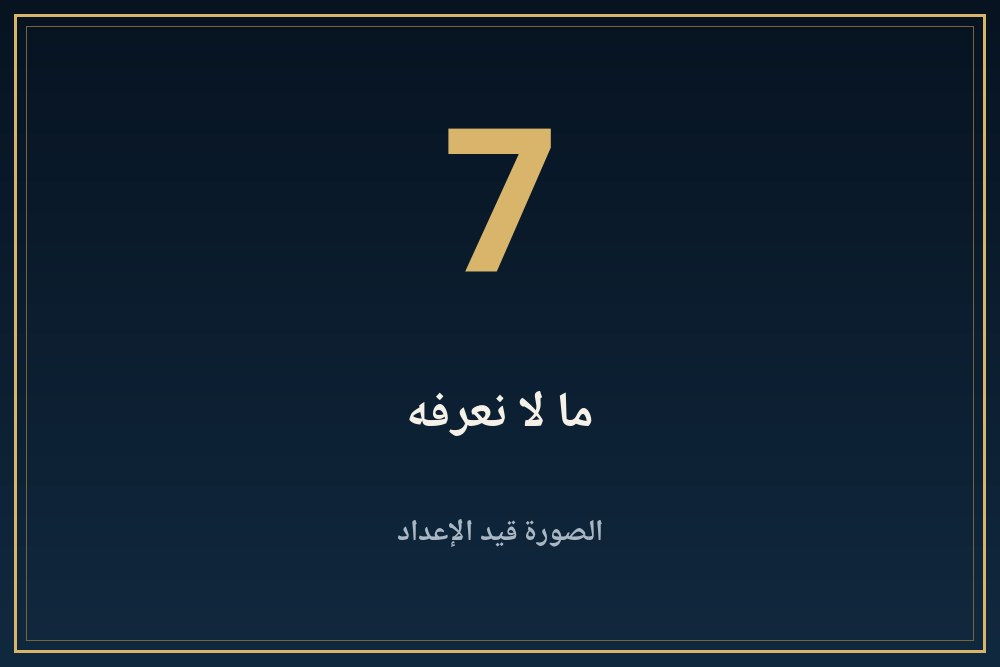
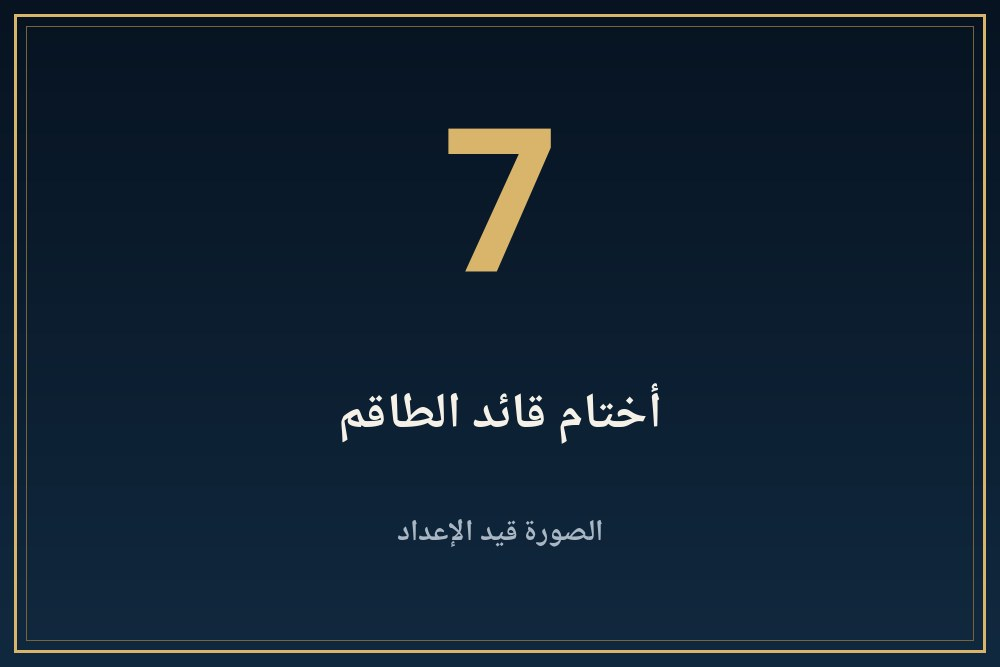
King card 53 folder 102: updated JSON

Changed region(s): [[0.341, 0.5697, 0.682, 0.6597]]

diff --git a/kings/102-swbk-htb-althalth-skhm-ra-swa-dg-tawy/index.html b/kings/102-swbk-htb-althalth-skhm-ra-swa-dg-tawy/index.html
@@ -320,11 +320,11 @@ html[dir=ltr] #panav.open,#pash[dir=ltr] #panav.open{border-right:0!important;bo
 .abt li{display:grid;grid-template-columns:62px 1fr;gap:10px;align-items:baseline;font-size:14px;line-height:1.85;color:#d6dee8}
 .abt li b{color:#d8b56b;font-size:13px;font-weight:700}
 @media(max-width:520px){.abt li{grid-template-columns:1fr;gap:0}.abt li b{margin-bottom:0}}</style><style id="back-ctl">.back-controls{z-index:80}.back-controls{position:fixed;bottom:18px;left:18px;z-index:30;display:flex;flex-direction:row;align-items:center;gap:8px;direction:ltr}.back-top{position:static;background:#d8b56b;color:#091725;border:1px solid rgba(240,215,157,.65);border-radius:50%;width:36px;height:36px;min-width:36px;padding:0;font-size:18px;line-height:1;cursor:pointer;box-shadow:0 5px 16px #0005;display:none;align-items:center;justify-content:center}.back-top.visible{display:flex}.back-top:hover{background:#f0d79d;transform:translateY(-1px)}@media(max-width:600px){.back-controls{bottom:12px;left:12px;gap:6px}.back-top{width:34px;height:34px;min-width:34px;font-size:17px}}.back-controls{display:flex;flex-direction:row;align-items:center;justify-content:center;gap:7px;direction:ltr}.back-top{width:32px;height:32px;min-width:32px;font-size:16px;background:#d8b56b;color:#091725;border:1px solid #f0d79d;box-shadow:0 4px 12px #0005}@media(max-width:600px){.back-controls{left:12px;bottom:12px;gap:6px}.back-top{width:31px;height:31px;min-width:31px;font-size:15px}}</style><style id="herodesk">@media(min-width:768px){header.hero{display:block!important}header.hero .hero-img{display:block!important;margin:0 auto 28px!important;max-width:460px!important;width:100%!important}header.hero .hero-img img{width:100%!important;height:auto!important;border-radius:18px}header.hero .hero-txt{margin-top:0!important}}</style><style id="urlwrap">.acc .body,.acc .body p,.acc .body li,.acc .body a,.acc .body ol,.acc .body ul{overflow-wrap:anywhere;word-break:break-word;min-width:0;max-width:100%}.acc .body a{display:inline;unicode-bidi:plaintext}</style></head><div class="pa-topline"></div><div id="pash"><div class="pa-nav"><a aria-label="بر عنخ الرئيسية" class="pa-brand" href="/"><span class="pa-mark"><span>𓂀</span></span><span class="pa-name">PER ANKH<small>بيت الحياة · HOUSE OF LIFE</small></span></a><nav aria-label="التنقل الرئيسي في الموقع" id="panav"><a href="/#home" data-ar="الرئيسية" data-en="Home">الرئيسية</a><a href="/#discover" data-ar="الأقسام الرئيسية" data-en="Main sections">الأقسام الرئيسية</a><a href="/#kings-details" data-ar="الملوك" data-en="Kings">الملوك</a><a href="/#religion-details" data-ar="الديانة" data-en="Religion">الديانة</a><a href="/#timeline-details" data-ar="العصور والأسرات" data-en="Eras &amp; dynasties">العصور والأسرات</a><a href="/#sites-details" data-ar="المواقع الأثرية" data-en="Archaeological sites">المواقع الأثرية</a><a href="/#library-details" data-ar="المكتبة" data-en="Library">المكتبة</a><a href="/#learning-details" data-ar="التعلم والاختبار" data-en="Learning &amp; quiz">التعلم والاختبار</a><a href="/#about" data-ar="المؤسس" data-en="Founder">المؤسس</a><a class="nav-extra" href="/#architecture-details" data-ar="العمارة والفنون" data-en="Architecture &amp; art">العمارة والفنون</a><a class="nav-extra" href="/#daily-life-details" data-ar="الحياة اليومية" data-en="Daily life">الحياة اليومية</a><a class="nav-extra" href="/#virtual-museum" data-ar="المتحف الافتراضي" data-en="Virtual museum">المتحف الافتراضي</a><a class="nav-extra" href="/#digital-lab" data-ar="معمل الآثار الرقمي" data-en="Digital archaeology lab">معمل الآثار الرقمي</a><a class="nav-extra" href="/#academy-details" data-ar="أكاديمية بر عنخ" data-en="Per Ankh academy">أكاديمية بر عنخ</a><a class="nav-extra" href="/#references-details" data-ar="المراجع والمصادر" data-en="References &amp; sources">المراجع والمصادر</a><a class="nav-extra" href="/#library-expanded" data-ar="المكتبة الأثرية" data-en="Archaeological library">المكتبة الأثرية</a><a class="nav-extra" href="/#interactive-lab" data-ar="مختبر الحضارة التفاعلي" data-en="Interactive lab">مختبر الحضارة التفاعلي</a><a class="nav-extra" href="/#atlas-explorer" data-ar="الأطلس الأثري" data-en="Archaeological atlas">الأطلس الأثري</a><a class="nav-extra" href="/#photo-gallery" data-ar="معرض الصور الأثري" data-en="Photo gallery">معرض الصور الأثري</a><a class="nav-extra" href="/#community-hub" data-ar="مجتمع بر عنخ" data-en="Community">مجتمع بر عنخ</a></nav><div class="pa-act"><button class="pa-lang" id="paLang" type="button">EN</button><a class="pa-acc" id="paAcc" href="/?account=1" data-ar="حسابي" data-en="Account" aria-label="فتح حساب المستخدم">حسابي</a><button class="pa-menu" id="paMenu" type="button" aria-controls="panav" aria-expanded="false" aria-haspopup="true" aria-label="فتح قائمة أقسام الموقع">☰</button></div></div></div><main class="wrap"><nav class="pa-crumb" id="paCrumb" aria-label="مسار الصفحة"><a href="/" data-ar="الرئيسية" data-en="Home">الرئيسية</a><i aria-hidden="true">‹</i><a href="/#kings-details" data-ar="ملوك مصر القديمة" data-en="Ancient Egyptian Kings">ملوك مصر القديمة</a><i aria-hidden="true">‹</i><span aria-current="page" data-ar="سوبك حتب الثالث (سخم رع سوا دج تاوي)" data-en="Sobekhotep Iii">سوبك حتب الثالث (سخم رع سوا دج تاوي)</span></nav><p class="pa-ennote" id="paNote" hidden>The Sobekhotep Iii article below is in Arabic. An English translation has not been prepared yet.</p><article><header class="hero"><i class="deco l"></i><i class="deco r"></i><div class="hero-img"><img src="banners/cover_b.jpg?v=3" alt="سوبك حتب الثالث (سخم رع سوا دج تاوي)" width="900" height="1200" fetchpriority="high"></div>
-<div class="hero-txt"><div class="eyebrow" aria-hidden="true"></div><h1>سوبك حتب الثالث (سخم رع سوا دج تاوي)</h1><p class="sub">ملك موثق بنقوش وآثار من الكرنك والكاب وسهيل والفنتين ومدامود</p></div></header><div class="tools"><button id="all" type="button"><svg viewBox="0 0 24 24" width="24" height="24" fill="none" stroke="currentColor" stroke-width="2.4" stroke-linecap="round" stroke-linejoin="round" aria-hidden="true"><path d="M6 6l6 6 6-6M6 13l6 6 6-6"/></svg><span>فتح الكل</span></button><button id="none" type="button"><svg viewBox="0 0 24 24" width="24" height="24" fill="none" stroke="currentColor" stroke-width="2" stroke-linejoin="round" stroke-linecap="round" aria-hidden="true"><rect x="3" y="4" width="18" height="16" rx="2"/><circle cx="9" cy="9.5" r="1.6" fill="currentColor"/><path d="M3.5 18l5.5-5.5 4 4 3-3 4.5 4.5"/></svg><span>إغلاق الكل</span></button></div><div class="legend" role="note"><b>دليل العلامات في الصفحة</b>
+<div class="hero-txt"><div class="eyebrow" aria-hidden="true"></div><h1>سوبك حتب الثالث (سخم رع سوا دج تاوي)</h1><p class="sub">أسرة منتوحتب: آثار من تل بسطة إلى الكاب</p></div></header><div class="tools"><button id="all" type="button"><svg viewBox="0 0 24 24" width="24" height="24" fill="none" stroke="currentColor" stroke-width="2.4" stroke-linecap="round" stroke-linejoin="round" aria-hidden="true"><path d="M6 6l6 6 6-6M6 13l6 6 6-6"/></svg><span>فتح الكل</span></button><button id="none" type="button"><svg viewBox="0 0 24 24" width="24" height="24" fill="none" stroke="currentColor" stroke-width="2" stroke-linejoin="round" stroke-linecap="round" aria-hidden="true"><rect x="3" y="4" width="18" height="16" rx="2"/><circle cx="9" cy="9.5" r="1.6" fill="currentColor"/><path d="M3.5 18l5.5-5.5 4 4 3-3 4.5 4.5"/></svg><span>إغلاق الكل</span></button></div><div class="legend" role="note"><b>دليل العلامات في الصفحة</b>
 <div class="row"><span class="bdg v">موثّق</span><span>مذكور في مصدر مرقّم يمكن فتحه من قسم المراجع.</span></div>
 <div class="row"><span class="bdg d">محل خلاف</span><span>الصفحة نفسها تذكر أن الباحثين أو المصادر مختلفون فيه.</span></div>
 <div class="row"><span class="bdg u">لم يُتحقق منه</span><span>الصفحة تذكر أنه من مصدر واحد ولم يُتحقق منه في مصدر ثانٍ.</span></div></div>
-<div class="band" aria-hidden="true"></div><details class="acc k1" id="s1"><summary><img class="bnr" src="banners/b01.jpg?v=1" alt="" width="1000" height="667"><span class="n">1</span><span class="t">من هو؟</span><span class="ch"></span></summary><div class="body"><button class="lbtn" type="button" disabled aria-disabled="true" style="opacity:.55;cursor:default"><svg viewBox="0 0 24 24" fill="currentColor" aria-hidden="true"><path d="M7 4.5v15a1 1 0 001.5.86l12-7.5a1 1 0 000-1.72l-12-7.5A1 1 0 007 4.5z"/></svg><span>التعليق الصوتي قريبًا</span></button><p><span class="bdg v">موثّق</span> يسميه سليم (ج4 ص49) «سحم رع سواز تاوي-سبك حتب الثالث»، ويقول إن اسمه لم يأت في قائمة الكرنك على الرغم مما يبدو له من الأهمية، لكن آثاره العدة تدل على نشاطه في طول البلاد وعرضها.<sup><a href="#r1">[1]</a></sup></p></div></details><details class="acc k2" id="s2"><summary><img class="bnr" src="banners/b02.jpg?v=1" alt="" loading="lazy" width="1000" height="667"><span class="n">2</span><span class="t">أسرته</span><span class="ch"></span></summary><div class="body"><button class="lbtn" type="button" disabled aria-disabled="true" style="opacity:.55;cursor:default"><svg viewBox="0 0 24 24" fill="currentColor" aria-hidden="true"><path d="M7 4.5v15a1 1 0 001.5.86l12-7.5a1 1 0 000-1.72l-12-7.5A1 1 0 007 4.5z"/></svg><span>التعليق الصوتي قريبًا</span></button><p><span class="bdg v">موثّق</span> يقول سليم (ص49-50) إن لوحة في فيينا لأمير اسمه «سنب» ذكرت أن والديه «منتوحتب» و«أوهت آبو» هما والدا هذا الملك نفسه، وإن جعارين مبعثرة تذكر اسم أبيه منتوحتب وأمه أوهت آبو. ويقول (ص49) إن في متحف اللوفر لوحة (C.8) صور عليها زوجة الملك وابنتان من بناته تتعبدان لمنو (مني)، وإن نقشها وصورها دقيقة تضارع فن الأسرة الثانية عشرة.<sup><a href="#r1">[1]</a></sup></p></div></details><details class="acc k3" id="s3"><summary><img class="bnr" src="banners/b03.jpg?v=1" alt="" loading="lazy" width="1000" height="667"><span class="n">3</span><span class="t">تماثيله</span><span class="ch"></span></summary><div class="body"><button class="lbtn" type="button" disabled aria-disabled="true" style="opacity:.55;cursor:default"><svg viewBox="0 0 24 24" fill="currentColor" aria-hidden="true"><path d="M7 4.5v15a1 1 0 001.5.86l12-7.5a1 1 0 000-1.72l-12-7.5A1 1 0 007 4.5z"/></svg><span>التعليق الصوتي قريبًا</span></button><p><span class="bdg v">موثّق</span> يقول سليم (ص49) إنه عثر في تل بسطة على تمثال من الجرانيت الأحمر لوحظ فيه تحريف في اسمه ربما كان سببه خطأ المثال، وتظهر فيه أغلاط فنية خاصة بالعصر، فالرأس والوسط صغيران. ويضيف أن جزءا من تمثال من الجرانيت في الكرنك نسب إليه، «وليس ذلك مؤكدا».<sup><a href="#r1">[1]</a></sup></p></div></details><details class="acc k4" id="s4"><summary><img class="bnr" src="banners/b04.jpg?v=1" alt="" loading="lazy" width="1000" height="667"><span class="n">4</span><span class="t">مبانيه</span><span class="ch"></span></summary><div class="body"><button class="lbtn" type="button" disabled aria-disabled="true" style="opacity:.55;cursor:default"><svg viewBox="0 0 24 24" fill="currentColor" aria-hidden="true"><path d="M7 4.5v15a1 1 0 001.5.86l12-7.5a1 1 0 000-1.72l-12-7.5A1 1 0 007 4.5z"/></svg><span>التعليق الصوتي قريبًا</span></button><p><span class="bdg v">موثّق</span> يقول سليم (ص51) إن بقايا في معبد الأقصر بطيبة (عقد باب وأعمدة وقطعة حجر) منقوشا عليها اسمه، وإن قطعة حجر في الكرنك تظهر أنه أقام بعض المباني هناك، وإن عتب باب وجد له في الجبلين، وإنه كشف حديثا عن مقصورة أقامها في المدامود، وإنه اغتصب لنفسه آثار أحد الملوك و«الظاهر» أنها لسنوسرت الثالث.<sup><a href="#r1">[1]</a></sup></p></div></details><details class="acc k1" id="s5"><summary><img class="bnr" src="banners/b05.jpg?v=1" alt="" loading="lazy" width="1000" height="667"><span class="n">5</span><span class="t">الكاب</span><span class="ch"></span></summary><div class="body"><button class="lbtn" type="button" disabled aria-disabled="true" style="opacity:.55;cursor:default"><svg viewBox="0 0 24 24" fill="currentColor" aria-hidden="true"><path d="M7 4.5v15a1 1 0 001.5.86l12-7.5a1 1 0 000-1.72l-12-7.5A1 1 0 007 4.5z"/></svg><span>التعليق الصوتي قريبًا</span></button><p><span class="bdg v">موثّق</span> يقول سليم (ص51-52) إن مقبرة في سفح الجبل بالكاب لأمير يدعى «سبك نخت» ذكر فيها أنه عاش في عهد هذا الفرعون. ويقول إن أحجار معبد أقامه في الكاب (المحاميد) عثر عليها عام 1938 في أساس معبد من الأسرة السادسة والعشرين، وإن نقوشها تقارب في إتقانها صناعة الأسرة الثانية عشرة وفيها منظر وضع أساس المعبد.<sup><a href="#r1">[1]</a></sup></p></div></details><details class="acc k2" id="s6"><summary><img class="bnr" src="banners/b06.jpg?v=1" alt="" loading="lazy" width="1000" height="667"><span class="n">6</span><span class="t">مدة الحكم</span><span class="ch"></span></summary><div class="body"><button class="lbtn" type="button" disabled aria-disabled="true" style="opacity:.55;cursor:default"><svg viewBox="0 0 24 24" fill="currentColor" aria-hidden="true"><path d="M7 4.5v15a1 1 0 001.5.86l12-7.5a1 1 0 000-1.72l-12-7.5A1 1 0 007 4.5z"/></svg><span>التعليق الصوتي قريبًا</span></button><p><span class="bdg v">موثّق</span> يقول سليم (ص51) إنه مكث على العرش نحو ثلاث سنوات كما جاء في ورقة تورين (العمود 7، الشظية 79-80). ويقول إن الجعارين وخرزة الجمشت وكرة الذهب وقبضة البلطة المنقوشة باسمه تبدو من بقايا قبره الذي نهب قديما.<sup><a href="#r1">[1]</a></sup></p></div></details><details class="acc k3" id="s7"><summary><img class="bnr" src="banners/b07.jpg?v=1" alt="" loading="lazy" width="1000" height="667"><span class="n">7</span><span class="t">ما لا نعرفه</span><span class="ch"></span></summary><div class="body"><button class="lbtn" type="button" disabled aria-disabled="true" style="opacity:.55;cursor:default"><svg viewBox="0 0 24 24" fill="currentColor" aria-hidden="true"><path d="M7 4.5v15a1 1 0 001.5.86l12-7.5a1 1 0 000-1.72l-12-7.5A1 1 0 007 4.5z"/></svg><span>التعليق الصوتي قريبًا</span></button><p><span class="bdg u">لم يُتحقق منه</span> لا نقرأ في مقتطفنا قبره بيقين ولا سبب غيابه عن قائمة الكرنك. جدول المقابلة: بطاقات الموقع تعد «سوبك حتب» الثاني هو خع عنخ رع والخامس هو خع حتب رع. وسليم حسن يسميهما «الخامس» و«السادس» على الترتيب، ويسمي خع نفر رع «الرابع» وسخم رع سواد تاوي «الثالث» مثل القائمة. ونعتمد ترقيم بطاقات الموقع مع ذكر ترقيم سليم عند كل ملك.</p></div></details><details class="acc k4" id="refs"><summary><img class="bnr" src="banners/b08.jpg?v=1" alt="" loading="lazy" width="1000" height="667"><span class="n">8</span><span class="t">المراجع</span><span class="ch"></span></summary><div class="body"><button class="lbtn" type="button" disabled aria-disabled="true" style="opacity:.55;cursor:default"><svg viewBox="0 0 24 24" fill="currentColor" aria-hidden="true"><path d="M7 4.5v15a1 1 0 001.5.86l12-7.5a1 1 0 000-1.72l-12-7.5A1 1 0 007 4.5z"/></svg><span>التعليق الصوتي قريبًا</span></button><p><b>مصادر فتحتُ صفحاتها وقرأتها:</b></p><ol><li id="r1" dir="auto">سليم حسن، موسوعة مصر القديمة، ج4 (طبعة هنداوي 2019)، أرقام صفحات PDF</li></ol><div class="flag"><b>تنبيه:</b> عدد المصادر المصرية المفتوحة لهذه الصفحة واحد فقط. لا نضيف تفاصيل لم تثبت في مصدر فتحناه وقرأنا نصه، وحيث يختلف المصدران ننسب كل رأي لصاحبه.</div></div></details></article><aside class="abt" aria-label="عن هذه الصفحة"><h3>عن هذه الصفحة</h3><ul><li><b>المحتوى</b><span>جزء من موسوعة بر عنخ التعليمية. التواريخ والتفسيرات وفق المراجع المتاحة، وقد تختلف التفاصيل بين الدراسات.</span></li><li><b>الصور</b><span>صور هذه الصفحة أماكن حجز مؤقتة إلى أن تُضاف الصور الفنية.</span></li><li><b>الصوت</b><span>التعليق الصوتي قيد الإعداد.</span></li></ul></aside><a class="back" href="/kings/">← تصفح المزيد</a><a class="back" href="/">العودة إلى الرئيسية</a><dialog id="lb"><img alt=""><p></p><button type="button">إغلاق</button></dialog>
+<div class="band" aria-hidden="true"></div><details class="acc k1" id="s1"><summary><img class="bnr" src="banners/b01.jpg?v=1" alt="" width="1000" height="667"><span class="n">1</span><span class="t">من هو؟</span><span class="ch"></span></summary><div class="body"><button class="lbtn" type="button" disabled aria-disabled="true" style="opacity:.55;cursor:default"><svg viewBox="0 0 24 24" fill="currentColor" aria-hidden="true"><path d="M7 4.5v15a1 1 0 001.5.86l12-7.5a1 1 0 000-1.72l-12-7.5A1 1 0 007 4.5z"/></svg><span>التعليق الصوتي قريبًا</span></button><p><span class="bdg v">موثّق</span> يسميه سليم (ج4 ص49) «سحم رع سواز تاوي-سبك حتب الثالث»، ويقول إن اسمه لم يأت في قائمة الكرنك على الرغم مما يبدو له من الأهمية، لكن آثاره العدة تدل على نشاطه في طول البلاد وعرضها.<sup><a href="#r1">[1]</a></sup></p></div></details><details class="acc k2" id="s2"><summary><img class="bnr" src="banners/b02.jpg?v=1" alt="" loading="lazy" width="1000" height="667"><span class="n">2</span><span class="t">أسرته</span><span class="ch"></span></summary><div class="body"><button class="lbtn" type="button" disabled aria-disabled="true" style="opacity:.55;cursor:default"><svg viewBox="0 0 24 24" fill="currentColor" aria-hidden="true"><path d="M7 4.5v15a1 1 0 001.5.86l12-7.5a1 1 0 000-1.72l-12-7.5A1 1 0 007 4.5z"/></svg><span>التعليق الصوتي قريبًا</span></button><p><span class="bdg v">موثّق</span> يقول سليم (ص49-50) إن لوحة في فيينا لأمير اسمه «سنب» ذكرت أن والديه «منتوحتب» و«أوهت آبو» هما والدا هذا الملك نفسه، وإن جعارين مبعثرة تذكر اسم أبيه منتوحتب وأمه أوهت آبو. ويقول (ص49) إن في متحف اللوفر لوحة (C.8) صور عليها زوجة الملك وابنتان من بناته تتعبدان لمنو (مني)، وإن نقشها وصورها دقيقة تضارع فن الأسرة الثانية عشرة.<sup><a href="#r1">[1]</a></sup></p></div></details><details class="acc k3" id="s3"><summary><img class="bnr" src="banners/b03.jpg?v=1" alt="" loading="lazy" width="1000" height="667"><span class="n">3</span><span class="t">تماثيله</span><span class="ch"></span></summary><div class="body"><button class="lbtn" type="button" disabled aria-disabled="true" style="opacity:.55;cursor:default"><svg viewBox="0 0 24 24" fill="currentColor" aria-hidden="true"><path d="M7 4.5v15a1 1 0 001.5.86l12-7.5a1 1 0 000-1.72l-12-7.5A1 1 0 007 4.5z"/></svg><span>التعليق الصوتي قريبًا</span></button><p><span class="bdg v">موثّق</span> يقول سليم (ص49) إنه عثر في تل بسطة على تمثال من الجرانيت الأحمر لوحظ فيه تحريف في اسمه ربما كان سببه خطأ المثال، وتظهر فيه أغلاط فنية خاصة بالعصر، فالرأس والوسط صغيران. ويضيف أن جزءا من تمثال من الجرانيت في الكرنك نسب إليه، «وليس ذلك مؤكدا».<sup><a href="#r1">[1]</a></sup></p></div></details><details class="acc k4" id="s4"><summary><img class="bnr" src="banners/b04.jpg?v=1" alt="" loading="lazy" width="1000" height="667"><span class="n">4</span><span class="t">مبانيه</span><span class="ch"></span></summary><div class="body"><button class="lbtn" type="button" disabled aria-disabled="true" style="opacity:.55;cursor:default"><svg viewBox="0 0 24 24" fill="currentColor" aria-hidden="true"><path d="M7 4.5v15a1 1 0 001.5.86l12-7.5a1 1 0 000-1.72l-12-7.5A1 1 0 007 4.5z"/></svg><span>التعليق الصوتي قريبًا</span></button><p><span class="bdg v">موثّق</span> يقول سليم (ص51) إن بقايا في معبد الأقصر بطيبة (عقد باب وأعمدة وقطعة حجر) منقوشا عليها اسمه، وإن قطعة حجر في الكرنك تظهر أنه أقام بعض المباني هناك، وإن عتب باب وجد له في الجبلين، وإنه كشف حديثا عن مقصورة أقامها في المدامود، وإنه اغتصب لنفسه آثار أحد الملوك و«الظاهر» أنها لسنوسرت الثالث.<sup><a href="#r1">[1]</a></sup></p></div></details><details class="acc k1" id="s5"><summary><img class="bnr" src="banners/b05.jpg?v=1" alt="" loading="lazy" width="1000" height="667"><span class="n">5</span><span class="t">الكاب</span><span class="ch"></span></summary><div class="body"><button class="lbtn" type="button" disabled aria-disabled="true" style="opacity:.55;cursor:default"><svg viewBox="0 0 24 24" fill="currentColor" aria-hidden="true"><path d="M7 4.5v15a1 1 0 001.5.86l12-7.5a1 1 0 000-1.72l-12-7.5A1 1 0 007 4.5z"/></svg><span>التعليق الصوتي قريبًا</span></button><p><span class="bdg v">موثّق</span> يقول سليم (ص51-52) إن مقبرة في سفح الجبل بالكاب لأمير يدعى «سبك نخت» ذكر فيها أنه عاش في عهد هذا الفرعون. ويقول إن أحجار معبد أقامه في الكاب (المحاميد) عثر عليها عام 1938 في أساس معبد من الأسرة السادسة والعشرين، وإن نقوشها تقارب في إتقانها صناعة الأسرة الثانية عشرة وفيها منظر وضع أساس المعبد.<sup><a href="#r1">[1]</a></sup></p></div></details><details class="acc k2" id="s6"><summary><img class="bnr" src="banners/b06.jpg?v=1" alt="" loading="lazy" width="1000" height="667"><span class="n">6</span><span class="t">مدة الحكم</span><span class="ch"></span></summary><div class="body"><button class="lbtn" type="button" disabled aria-disabled="true" style="opacity:.55;cursor:default"><svg viewBox="0 0 24 24" fill="currentColor" aria-hidden="true"><path d="M7 4.5v15a1 1 0 001.5.86l12-7.5a1 1 0 000-1.72l-12-7.5A1 1 0 007 4.5z"/></svg><span>التعليق الصوتي قريبًا</span></button><p><span class="bdg v">موثّق</span> يقول سليم (ص51) إنه مكث على العرش نحو ثلاث سنوات كما جاء في ورقة تورين (العمود 7، الشظية 79-80). ويقول إن الجعارين وخرزة الجمشت وكرة الذهب وقبضة البلطة المنقوشة باسمه تبدو من بقايا قبره الذي نهب قديما.<sup><a href="#r1">[1]</a></sup></p></div></details><details class="acc k3" id="s7"><summary><img class="bnr" src="banners/b07.jpg?v=1" alt="" loading="lazy" width="1000" height="667"><span class="n">7</span><span class="t">أختام قائد الطاقم</span><span class="ch"></span></summary><div class="body"><button class="lbtn" type="button" disabled aria-disabled="true" style="opacity:.55;cursor:default"><svg viewBox="0 0 24 24" fill="currentColor" aria-hidden="true"><path d="M7 4.5v15a1 1 0 001.5.86l12-7.5a1 1 0 000-1.72l-12-7.5A1 1 0 007 4.5z"/></svg><span>التعليق الصوتي قريبًا</span></button><p><span class="bdg v">موثّق</span> يذكر دي جايتانو (CRE 2022، ص112)، تحت مدخل سبك حتب الثالث، أن «قائد طاقم الحاكم» اسمه سبك حتب، وأبوه «قائد طاقم الحاكم» اسمه منتوحتب، مسجَّلان على ما لا يقل عن واحد وعشرين ختما وطبعة ختم. واسم الأب منتوحتب هو الاسم الذي يذكره سليم أيضا لأبي هذا الملك في قسم «أسرته». ولا يقول المقتطف أكثر من ذلك.<sup><a href="#r2">[2]</a></sup></p></div></details><details class="acc k4" id="s8"><summary><img class="bnr" src="banners/b08.jpg?v=1" alt="" loading="lazy" width="1000" height="667"><span class="n">8</span><span class="t">ما لا نعرفه</span><span class="ch"></span></summary><div class="body"><button class="lbtn" type="button" disabled aria-disabled="true" style="opacity:.55;cursor:default"><svg viewBox="0 0 24 24" fill="currentColor" aria-hidden="true"><path d="M7 4.5v15a1 1 0 001.5.86l12-7.5a1 1 0 000-1.72l-12-7.5A1 1 0 007 4.5z"/></svg><span>التعليق الصوتي قريبًا</span></button><p><span class="bdg u">لم يُتحقق منه</span> لا نقرأ في مقتطفنا قبره بيقين ولا سبب غيابه عن قائمة الكرنك. جدول المقابلة: بطاقات الموقع تعد «سوبك حتب» الثاني هو خع عنخ رع والخامس هو خع حتب رع. وسليم حسن يسميهما «الخامس» و«السادس» على الترتيب، ويسمي خع نفر رع «الرابع» وسخم رع سواد تاوي «الثالث» مثل القائمة. ونعتمد ترقيم بطاقات الموقع مع ذكر ترقيم سليم عند كل ملك.</p></div></details><details class="acc k4" id="refs"><summary><img class="bnr" src="banners/b09.jpg?v=1" alt="" loading="lazy" width="1000" height="667"><span class="n">9</span><span class="t">المراجع</span><span class="ch"></span></summary><div class="body"><button class="lbtn" type="button" disabled aria-disabled="true" style="opacity:.55;cursor:default"><svg viewBox="0 0 24 24" fill="currentColor" aria-hidden="true"><path d="M7 4.5v15a1 1 0 001.5.86l12-7.5a1 1 0 000-1.72l-12-7.5A1 1 0 007 4.5z"/></svg><span>التعليق الصوتي قريبًا</span></button><p><b>مصادر فتحتُ صفحاتها وقرأتها:</b></p><ol><li id="r1" dir="auto">سليم حسن، موسوعة مصر القديمة، ج4 (طبعة هنداوي 2019)، أرقام صفحات PDF</li><li id="r2" dir="auto">Francesco De Gaetano, «Soldiers Becoming Pharaohs or Pharaohs becoming Soldiers? Kingship and Warfare between the Middle Kingdom and the Second Intermediate Period»، في: Current Research in Egyptology 2022 (Archaeopress)، ص109-118 (ترقيم الكتاب المطبوع)</li></ol><div class="flag"><b>تنبيه:</b> عدد المصادر المصرية المفتوحة لهذه الصفحة واحد فقط. لا نضيف تفاصيل لم تثبت في مصدر فتحناه وقرأنا نصه، وحيث يختلف المصدران ننسب كل رأي لصاحبه.</div></div></details></article><aside class="abt" aria-label="عن هذه الصفحة"><h3>عن هذه الصفحة</h3><ul><li><b>المحتوى</b><span>جزء من موسوعة بر عنخ التعليمية. التواريخ والتفسيرات وفق المراجع المتاحة، وقد تختلف التفاصيل بين الدراسات.</span></li><li><b>الصور</b><span>صور هذه الصفحة أماكن حجز مؤقتة إلى أن تُضاف الصور الفنية.</span></li><li><b>الصوت</b><span>التعليق الصوتي قيد الإعداد.</span></li></ul></aside><a class="back" href="/kings/">← تصفح المزيد</a><a class="back" href="/">العودة إلى الرئيسية</a><dialog id="lb"><img alt=""><p></p><button type="button">إغلاق</button></dialog>
 <script>(function(){var A=function(){return document.querySelectorAll("details.acc")};
 document.getElementById("all").onclick=function(){A().forEach(function(d){d.open=true})};
 document.getElementById("none").onclick=function(){A().forEach(function(d){d.open=false})};
@@ -332,7 +332,7 @@ function go(h){var e=h&&document.getElementById(h.slice(1));if(!e)return;var d=e
 document.addEventListener("click",function(e){var a=e.target.closest&&e.target.closest('a[href^="#"]');if(a){go(a.getAttribute("href"))}});
 if(location.hash)go(location.hash);
 var d=document.getElementById("lb");if(!d||!d.showModal)return;var im=d.querySelector("img"),p=d.querySelector("p");document.addEventListener("click",function(e){var t=e.target;if(t.tagName=="IMG"&&t.closest(".fig")){im.src=t.src;im.alt=t.alt;p.textContent=t.closest("figure").querySelector("figcaption").innerText;d.showModal()}else if(t==d||t.tagName=="BUTTON"&&d.contains(t)){d.close()}})})();</script><div class="pbar" id="pbar"></div><div class="pl" id="pl" role="region" aria-label="مشغّل الاستماع"><div class="in"><button class="pp" id="pp" type="button" aria-label="تشغيل"><svg viewBox="0 0 24 24" fill="currentColor" aria-hidden="true"><path d="M7 4.5v15a1 1 0 001.5.86l12-7.5a1 1 0 000-1.72l-12-7.5A1 1 0 007 4.5z"/></svg></button><div class="mid"><div class="ttl"><span id="tt">استماع</span> <i>صوت اصطناعي</i></div><input id="sk" type="range" min="0" max="1000" value="0" aria-label="موضع التشغيل"><div class="tm"><span id="cur">0:00</span><span id="dur">0:00</span></div></div><div class="ex"><button id="bk" type="button" aria-label="رجوع 10 ثوانٍ">−10</button><button id="fw" type="button" aria-label="تقدم 10 ثوانٍ">+10</button><button id="sp" class="sp" type="button" aria-label="سرعة التشغيل">1×</button><button id="cl" type="button" aria-label="إغلاق المشغّل">✕</button></div><p class="err" id="er" role="alert" hidden>تعذر تحميل الملف الصوتي. حاول لاحقًا.</p></div><div aria-live="polite" id="st" style="position:absolute;left:-9999px"></div><audio id="au" preload="none"></audio></div></main><script>(function(){
-var S={"s1": ["من هو؟", 1], "s2": ["أسرته", 1], "s3": ["تماثيله", 1], "s4": ["مبانيه", 1], "s5": ["الكاب", 1], "s6": ["مدة الحكم", 1], "s7": ["ما لا نعرفه", 1], "refs": ["المراجع", 1]},$=function(i){return document.getElementById(i)},au=$("au"),pl=$("pl"),pp=$("pp"),sk=$("sk"),P="<svg viewBox=\"0 0 24 24\" fill=\"currentColor\" aria-hidden=\"true\"><path d=\"M7 4.5v15a1 1 0 001.5.86l12-7.5a1 1 0 000-1.72l-12-7.5A1 1 0 007 4.5z\"/></svg>",Q="<svg viewBox=\"0 0 24 24\" fill=\"currentColor\" aria-hidden=\"true\"><rect x=\"5.5\" y=\"4\" width=\"4.5\" height=\"16\" rx=\"1.2\"/><rect x=\"14\" y=\"4\" width=\"4.5\" height=\"16\" rx=\"1.2\"/></svg>",cur=null,part=1,seeking=false;
+var S={"s1": ["من هو؟", 1], "s2": ["أسرته", 1], "s3": ["تماثيله", 1], "s4": ["مبانيه", 1], "s5": ["الكاب", 1], "s6": ["مدة الحكم", 1], "s7": ["أختام قائد الطاقم", 1], "s8": ["ما لا نعرفه", 1], "refs": ["المراجع", 1]},$=function(i){return document.getElementById(i)},au=$("au"),pl=$("pl"),pp=$("pp"),sk=$("sk"),P="<svg viewBox=\"0 0 24 24\" fill=\"currentColor\" aria-hidden=\"true\"><path d=\"M7 4.5v15a1 1 0 001.5.86l12-7.5a1 1 0 000-1.72l-12-7.5A1 1 0 007 4.5z\"/></svg>",Q="<svg viewBox=\"0 0 24 24\" fill=\"currentColor\" aria-hidden=\"true\"><rect x=\"5.5\" y=\"4\" width=\"4.5\" height=\"16\" rx=\"1.2\"/><rect x=\"14\" y=\"4\" width=\"4.5\" height=\"16\" rx=\"1.2\"/></svg>",cur=null,part=1,seeking=false;
 function fmt(t){if(!isFinite(t))return"0:00";var m=Math.floor(t/60),s=Math.floor(t%60);return m+":"+(s<10?"0":"")+s}
 function btns(){document.querySelectorAll(".lbtn").forEach(function(b){var on=b.dataset.s===cur&&!au.paused;b.classList.toggle("on",on);b.querySelector("span").textContent=on?"إيقاف مؤقت":(b.dataset.s===cur&&au.currentTime>1?"أكمل الاستماع":"استمع لهذا القسم");b.querySelector("svg").outerHTML=on?Q:P})}
 function ui(){var pa=au.paused;pp.innerHTML=pa?P:Q;pp.setAttribute("aria-label",pa?"تشغيل":"إيقاف مؤقت");btns()}
